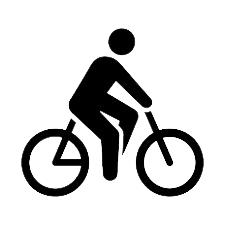
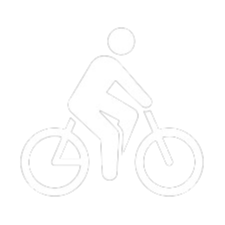
commit

Changed region(s): [[0.0933, 0.0933, 0.9333, 0.9022]]

diff --git a/bikeGame/js/process.js b/bikeGame/js/process.js
@@ -1,28 +1,25 @@
 // ゲームの開始処理
 function gameStart() {
     // プレイヤーの落下速度の初期化
-	// playerSpeed = 0;
+	playerSpeed = 0;
     // ゲートの配置を初期化
 	initGate();
+	// スコアの計測
+	score = 0;
+	scoreTimer = setInterval(countScore, 100);
 	// 状態をプレイ中に
 	gameState = 1;
 }
 
 // スペースキーを押したらジャンプする
 function jumpPlayer() {
-	playerSpeed = playerJumpSpeed;
-}
-
-// プレイヤーの落下処理
-function fallPlayer() {
-	// プレイ中のみ有効
-	if(gameState === 1) {
-		// プレイヤーを落下(負の場合上昇)させる
-		playerY += playerSpeed;
-		// 落下速度を加速(「加速後の速度」と「最大速度」を比較し、小さい方を代入)
-		playerSpeed = Math.min(playerSpeed + gravity, maxSpeed);
+	if(jampNum>=1){
+		playerImage.src = "image/bike_jamp.png";
+		playerSpeed = playerJumpSpeed;
+		jampNum = jampNum - 1;
 	}
 }
+
 
 // ゲートの初期位置を設定
 function initGate() {
@@ -30,7 +27,8 @@ function initGate() {
 		// ゲートの間隔を離して設置しておく
 		const x = gameWidth + gateDistance*i;
 		// ゲートの高さを設定(あとで)
-		const y = 200;
+		// const y = 200;
+		const y = Math.random() * (gameHeight - gateH);
 		gates[i] = {x: x, y: y};
 	}
 }
@@ -49,3 +47,76 @@ function moveGate() {
 		}
 	}
 }
+
+// ゲーム終了時の処理
+function gameReset() {
+	gameState = 0;
+	playerY = gameHeight * 0.5;
+}
+
+// ゲートとぶつかっているか調べる処理
+function checkCollision() {
+	// 各ゲート毎に調べる
+	for(let i=0; i<gateCount; i++) {
+		// x軸方向
+		let isCollisionX = playerX + playerW > gates[i].x && playerX < gates[i].x + gateW;
+		// y軸方向
+		// let isCollisionY = playerY < gates[i].y || playerY + playerH > gates[i].y + gateH;
+		let isCollisionY = playerY + playerH > gates[i].y + gateH;
+
+		if(isCollisionX && isCollisionY) {
+			return true;
+		}
+	}
+	return false;
+}
+
+// スコアを計測する
+function countScore() {
+	score += 1;
+}
+
+// プレイヤーの落下処理
+function fallPlayer() {
+	// プレイ中のみ有効
+	if(gameState === 1) {
+		// プレイヤーを落下(負の場合上昇)させる
+		playerY += playerSpeed;
+
+		// 落下速度を加速(「加速後の速度」と「最大速度」を比較し、小さい方を代入)
+		playerSpeed = Math.min(playerSpeed + gravity, maxSpeed);
+
+		// ゲートにぶつかっているか調べる
+		let isCollision = checkCollision();
+
+		// 画面最上部より上に行けないように
+		if(playerY < 0) {
+			playerY = 0;
+			playerSpeed = 0;
+		}
+		// 画面最下部より下に落ちるとゲームオーバー
+		if(playerY > gameHeight || isCollision) {
+			// スコア計測タイマー停止
+			clearInterval(scoreTimer);
+			// ハイスコア更新
+			maxScore = Math.max(score, maxScore);
+
+			gameState = 2;
+		}
+
+		// 落下速度を加速(「加速後の速度」と「最大速度」を比較し、小さい方を代入)
+		playerSpeed = Math.min(playerSpeed + gravity, maxSpeed);
+
+		// 床までの落下処理
+		if(playerY > 315){
+			playerSpeed = 0;
+			// ジャンプ回数のリセット
+			jampNum = 2;
+			// gravity = 0;
+			// 着地時にプレイヤー画像の変更
+			playerImage.src = "image/bike.png";
+		}
+	}
+}
+
+	

diff --git a/bikeGame/js/draw.js b/bikeGame/js/draw.js
@@ -1,14 +1,19 @@
 // タイトル画面(ゲームスタート前)を描画する処理
 function drawTitleScene() {
 	if(gameState === 0) {
+		// プレイヤー画像の初期化
+		playerImage.src = "image/bike.png";
 		// ゲームスタート以前に表示するテキスト
-		ctx.fillStyle = "black";
+		ctx.fillStyle = "#fff";
 		ctx.textAlign = "center";
 		ctx.textBaseline = "middle";
 		ctx.font = "60px Zen Kaku Gothic New";
 		ctx.fillText("バイクジャンプ", gameWidth*0.5, gameHeight*0.25);
 		ctx.font = "20px Zen Kaku Gothic New";
 		ctx.fillText("スペースキーを押してスタート", gameWidth*0.5, gameHeight*0.75);
+		ctx.fillText("スコア: " + score, gameWidth*0.5, gameHeight*0.5);
+		ctx.fillText("ハイスコア: " + maxScore, gameWidth*0.5, gameHeight*0.55);
+		ctx.fillText("流れてくる壁や敵をよけて！！！", gameWidth*0.5, gameHeight*0.35);
 	}
 }
 
@@ -33,13 +38,44 @@ function drawGate() {
 			let h;
 	
 			// ゲートの上部分
-			y = 0;
-			h = gates[i].y;
-			ctx.fillRect(x, y, w, h);
+			// y = 0;
+			// h = gates[i].y;
+			// ctx.fillRect(x, y, w, h);
 			// ゲートの下部分
 			y = gates[i].y + gateH;
 			h = gameHeight - gates[i].y - gateH;
 			ctx.fillRect(x, y, w, h);
 		}
+
 	}
+}
+
+function drawGround(){
+	if(gameState >= 0){
+		ctx.fillStyle = '#DD8800';
+		var x = 0;
+		var y = 375;
+		var width = gameWidth;
+		var height = 265;
+		ctx.fillRect(x, y,width,height);
+	}
+}
+
+// ゲームオーバー画面を描画する処理
+function drawGameover() {
+	if(gameState === 2) {
+		// ゲームスタート以前に表示するテキスト
+		ctx.fillStyle = "#fff";
+		ctx.textAlign = "center";
+		ctx.textBaseline = "middle";
+		ctx.font = "60px Zen Kaku Gothic New";
+		ctx.fillText("ゲームオーバー", gameWidth*0.5, gameHeight*0.25);
+		ctx.font = "20px Zen Kaku Gothic New";
+		ctx.fillText("スペースキーを押してタイトルへ", gameWidth*0.5, gameHeight*0.75);
+		ctx.fillText("スコア: " + score, gameWidth*0.5, gameHeight*0.5);
+		ctx.fillText("ハイスコア: " + maxScore, gameWidth*0.5, gameHeight*0.55);
+
+		// 当たり判定時に画像変更
+		playerImage.src = "image/bike_black.png";
+	}	
 }

diff --git a/bikeGame/js/variable.js b/bikeGame/js/variable.js
@@ -10,11 +10,19 @@ const playerW = 60;
 const playerH = 60;
 // プレイヤーキャラクターの座標(xは固定)
 const playerX = gameWidth * 0.18;
-var playerY = gameHeight * 0.2;
+var playerY = gameHeight * 0.5;
 // プレイヤーキャラクターの落下速度
 var playerSpeed = 0;
 // プレイヤーキャラクターのジャンプの初速
-const playerJumpSpeed = -4;
+const playerJumpSpeed = -7;
+
+// 石の画像
+const ishiImage = new Image();
+ishiImage.src = "image/ishi.png";
+var ishiX = 500;
+var ishiY = 320;
+var ishiSpeed = 5;
+
 
 // 重力加速度
 const gravity = 9.8 / 100;
@@ -23,14 +31,24 @@ const maxSpeed = 6;
 
 
 // ゲートの個数
-const gateCount = 3;
+const gateCount = 300;
 // ゲートの流れる速度
-const gateSpeed = 2;
+const gateSpeed = 3;
 // ゲートの横幅
-const gateW = 30;
+const gateW = 10;
 // ゲートの空いている高さ
-const gateH = 240;
+const gateH = 250;
 // ゲート間の距離
-const gateDistance = (gameWidth + gateW) / gateCount;
+// const gateDistance = (gameWidth + gateW) / gateCount;
+const gateDistance = (gameWidth + gateW) / 3;
 // ゲートのデータ管理用配列
 var gates = [];
+
+// ジャンプ回数制限
+var jampNum = 2;
+
+// スコア
+var score = 0;
+var maxScore = 0;
+// スコア計測タイマー
+var scoreTimer;

diff --git a/bikeGame/js/input.js b/bikeGame/js/input.js
@@ -22,5 +22,10 @@ function playerInput() {
 			// ゲーム中はジャンプボタンとして機能
 			jumpPlayer();
 			break;
+
+		case 2:
+			// ゲームオーバー画面で押すと初期化後タイトル画面へ
+			gameReset();
+			break;
 	}
 }

diff --git a/bikeGame/js/main.js b/bikeGame/js/main.js
@@ -6,9 +6,11 @@ function main() {
 	fallPlayer();
     moveGate(); 
 	// 描画系処理
+	drawGround();
 	drawTitleScene();
     drawPlayer();
-    drawGate();
+    drawGate();  
+	drawGameover();
 }
 
 // 10msごとに実行

diff --git a/bikeGame/index.php b/bikeGame/index.php
@@ -7,7 +7,7 @@
 </head>
 <body>
 	<!-- ゲームの画面となるキャンバス -->
-	<canvas id="gameCanvas" style="background-color: lightcyan; display: block; margin: 0 auto;"></canvas>
+	<canvas id="gameCanvas" style="background-color: black; display: block; margin: 0 auto;"></canvas>
 	<!-- 制御用のJavascript -->
 	<script src="js/canvas.js"></script>
 	<script src="js/variable.js"></script>
